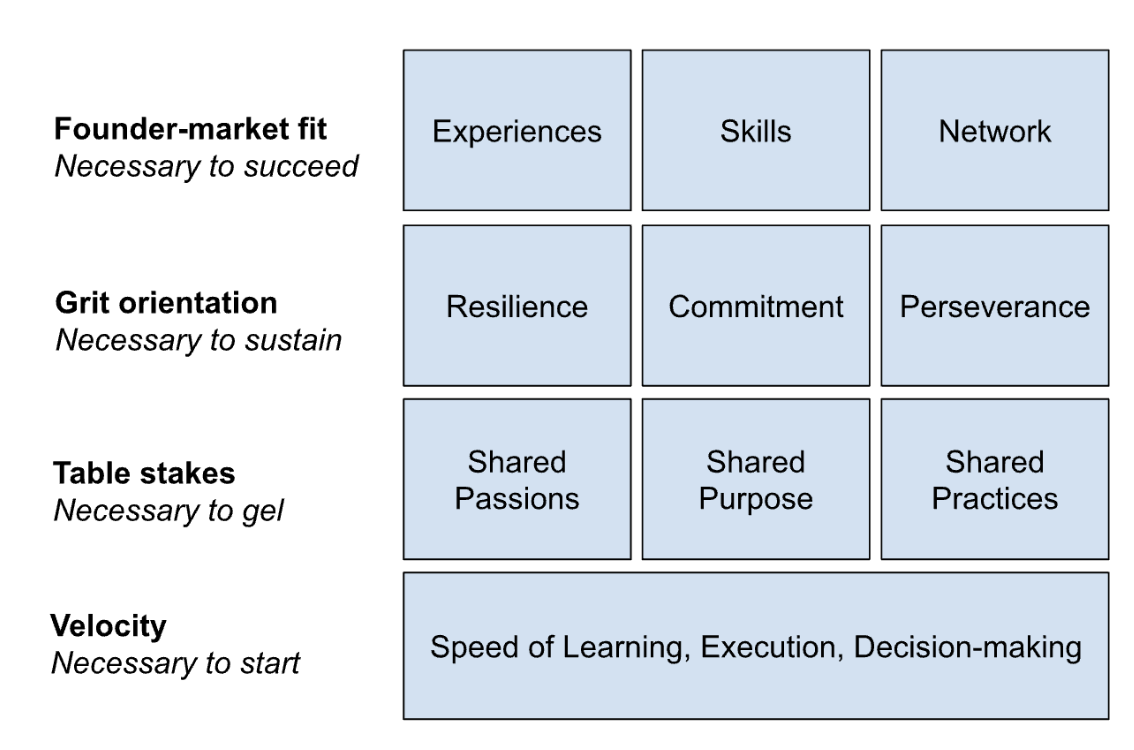
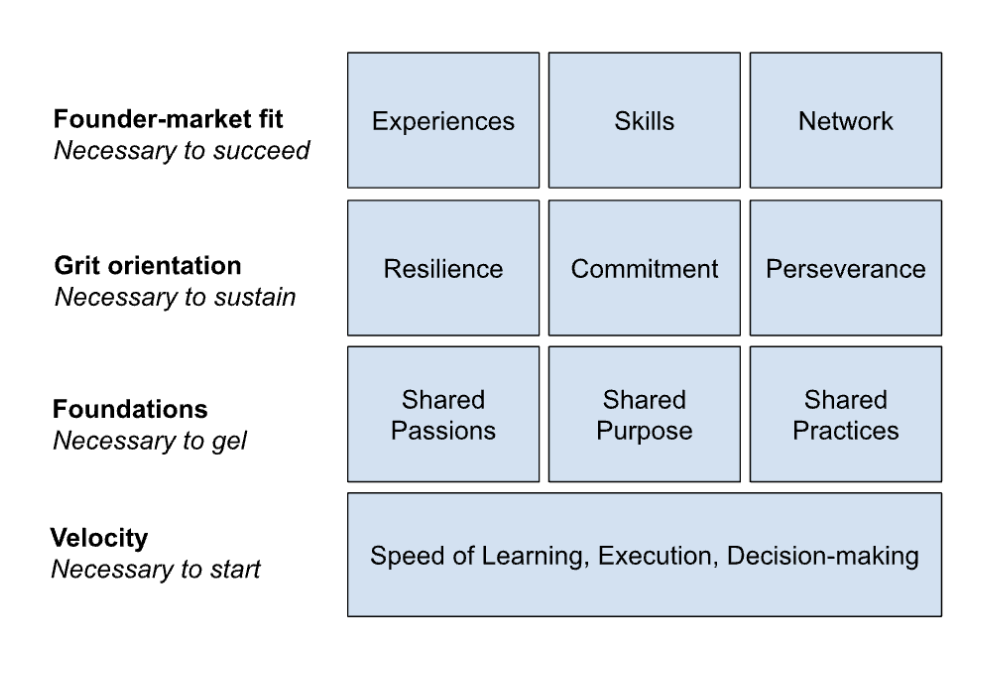
rubric

diff --git a/content/projects/startup/index.md b/content/projects/startup/index.md
@@ -40,7 +40,13 @@ Going through this process was a great experience. I’ve reflected on some of t
 
 Here are a few questions that I plan to ask myself every time I evaluate a potential co-founder. I also hope that a potential co-founder asks me the same questions.
 
-# Table stakes
+# Velocity
+The way you think about opportunity cost. A shared perspective and expectation of speed and progress.
+- `Learning` How fast and willing are you to learn new skills?
+- `Execution` How quickly can you execute?
+- `Decision-making` How quickly can you make decisions with limited information?
+
+# Collaboration 
 The basis for working together. Table stakes are necessary to start working together. Shared ideas around all three are necessary to build anything.
 - `Shared Passions:` What are you interested in building? What are your domain interests? What problem areas do you want to solve? What industries are you interested in?
 - `Shared Purpose:` Why are you starting a company? What do you think about the responsibilities of taking on venture capital and what this entails?
